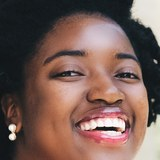
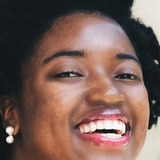
0.18: real Blemishes tile rendered with face_blemish
Claude-Session: https://claude.ai/code/session_01QMtMpmT5XhEPKYvsMdd5ha

diff --git a/docs/plan-0.18.md b/docs/plan-0.18.md
@@ -55,8 +55,9 @@ Leyenda: ✅ hecho en la rama · 🟡 empezado · ⬜ por hacer.
 - ⬜ Probar en ventana con un clip a 0,25×.
 
 ## 5. Foto de la tarjeta «Imperfecciones»
-- ⬜ `resources/retouch/skin-blemish.jpg` es copia de skin-smooth: rehacerla con la app (ver
-  `resources/retouch/README.md`) con el efecto `face_blemish`.
+- ✅ Rehecha con la app 0.18 sin ventana (`detect_faces` + `face_blemish` con Manchas 1,0 y Arrugas 0,9) sobre la foto
+  CC0 original de Wikimedia a tamaño completo, recortada como las demás (mismo encuadre que `original.jpg`).
+  De paso queda **probado el efecto sobre una cara real**: empareja pecas y manchas sin borrar rasgos.
 
 ## 6. Voz con IA en el editor web (`flipstudio-app`) — ✅ DESPLEGADA (2026-10-18)
 - Pestaña **Voz** (`src/components/VoicePanel.tsx`): texto, idioma (español, inglés, portugués, francés, italiano),
